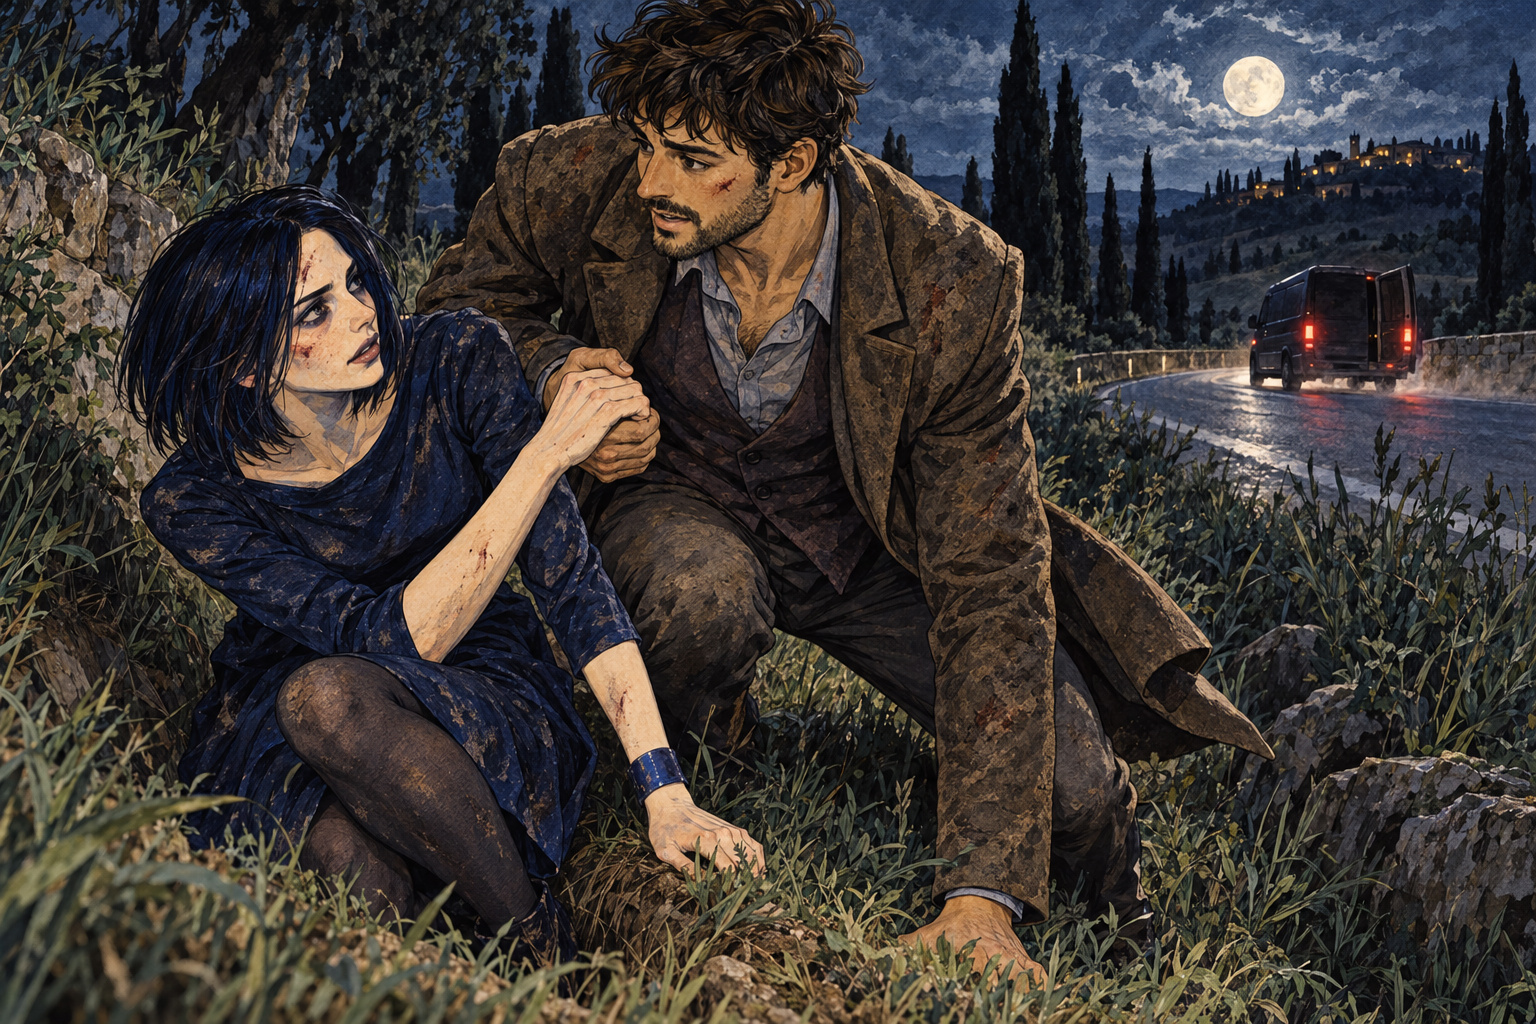
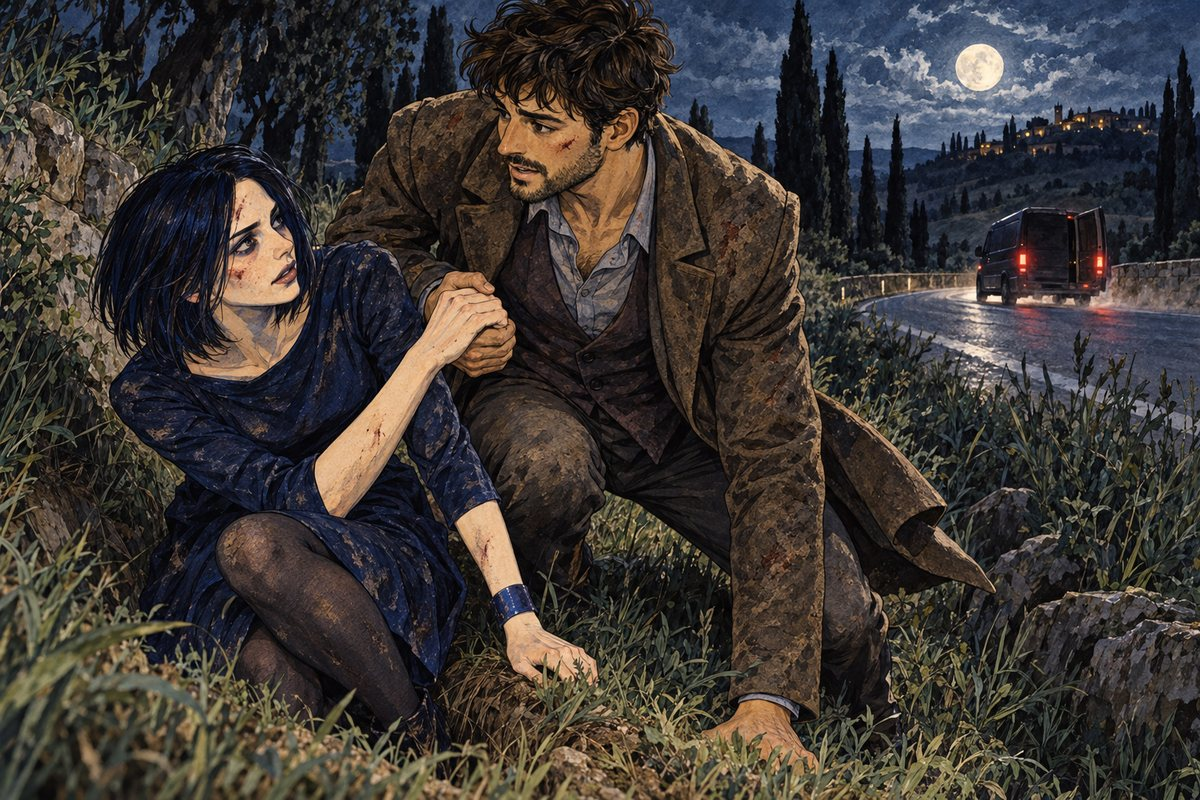
Optimize illustrations: A Man from the Future (PNG→JPEG) and La nevicata rosa
Resized to max 1200px wide, JPEG q84 progressive. Site content 101 MB → 45 MB.

Claude-Session: https://claude.ai/code/session_01HEce5eQWPrLfFRyhmwYtHt

Changed region(s): [[0.7708, 0.9375, 0.8017, 0.9688], [0.555, 0.875, 0.5858, 0.9062]]

diff --git a/novels/a-man-from-the-future/04.md b/novels/a-man-from-the-future/04.md
@@ -1,6 +1,6 @@
 ## to the Future Baby
 
-![](novels/a-man-from-the-future/img/03.png)
+![](novels/a-man-from-the-future/img/03.jpg)
 
 ### Arbatstreet
 

diff --git a/novels/a-man-from-the-future/07.md b/novels/a-man-from-the-future/07.md
@@ -1,4 +1,4 @@
-![](novels/a-man-from-the-future/img/06.png)
+![](novels/a-man-from-the-future/img/06.jpg)
 
 ### Aneveningtogether
 

diff --git a/novels/a-man-from-the-future/05.md b/novels/a-man-from-the-future/05.md
@@ -1,4 +1,4 @@
-![](novels/a-man-from-the-future/img/04.png)
+![](novels/a-man-from-the-future/img/04.jpg)
 
 ### Nina ’ Scafé
 

diff --git a/novels/a-man-from-the-future/11.md b/novels/a-man-from-the-future/11.md
@@ -1,4 +1,4 @@
-![](novels/a-man-from-the-future/img/10.png)
+![](novels/a-man-from-the-future/img/10.jpg)
 
 ### Afuturetogether
 

diff --git a/novels/a-man-from-the-future/02.md b/novels/a-man-from-the-future/02.md
@@ -1,4 +1,4 @@
-![](novels/a-man-from-the-future/img/01.png)
+![](novels/a-man-from-the-future/img/01.jpg)
 
 ### Moscow · 3024
 

diff --git a/novels/a-man-from-the-future/03.md b/novels/a-man-from-the-future/03.md
@@ -1,4 +1,4 @@
-![](novels/a-man-from-the-future/img/02.png)
+![](novels/a-man-from-the-future/img/02.jpg)
 
 ### Moscow · 2024
 

diff --git a/novels/a-man-from-the-future/06.md b/novels/a-man-from-the-future/06.md
@@ -1,4 +1,4 @@
-![](novels/a-man-from-the-future/img/05.png)
+![](novels/a-man-from-the-future/img/05.jpg)
 
 ### June27 · 2024
 

diff --git a/novels/a-man-from-the-future/09.md b/novels/a-man-from-the-future/09.md
@@ -1,4 +1,4 @@
-![](novels/a-man-from-the-future/img/08.png)
+![](novels/a-man-from-the-future/img/08.jpg)
 
 ### Moscow · 3024
 

diff --git a/novels/a-man-from-the-future/10.md b/novels/a-man-from-the-future/10.md
@@ -1,4 +1,4 @@
-![](novels/a-man-from-the-future/img/09.png)
+![](novels/a-man-from-the-future/img/09.jpg)
 
 ### June27 · 2024
 

diff --git a/novels/a-man-from-the-future/08.md b/novels/a-man-from-the-future/08.md
@@ -1,4 +1,4 @@
-![](novels/a-man-from-the-future/img/07.png)
+![](novels/a-man-from-the-future/img/07.jpg)
 
 ### Askingforhelp
 
